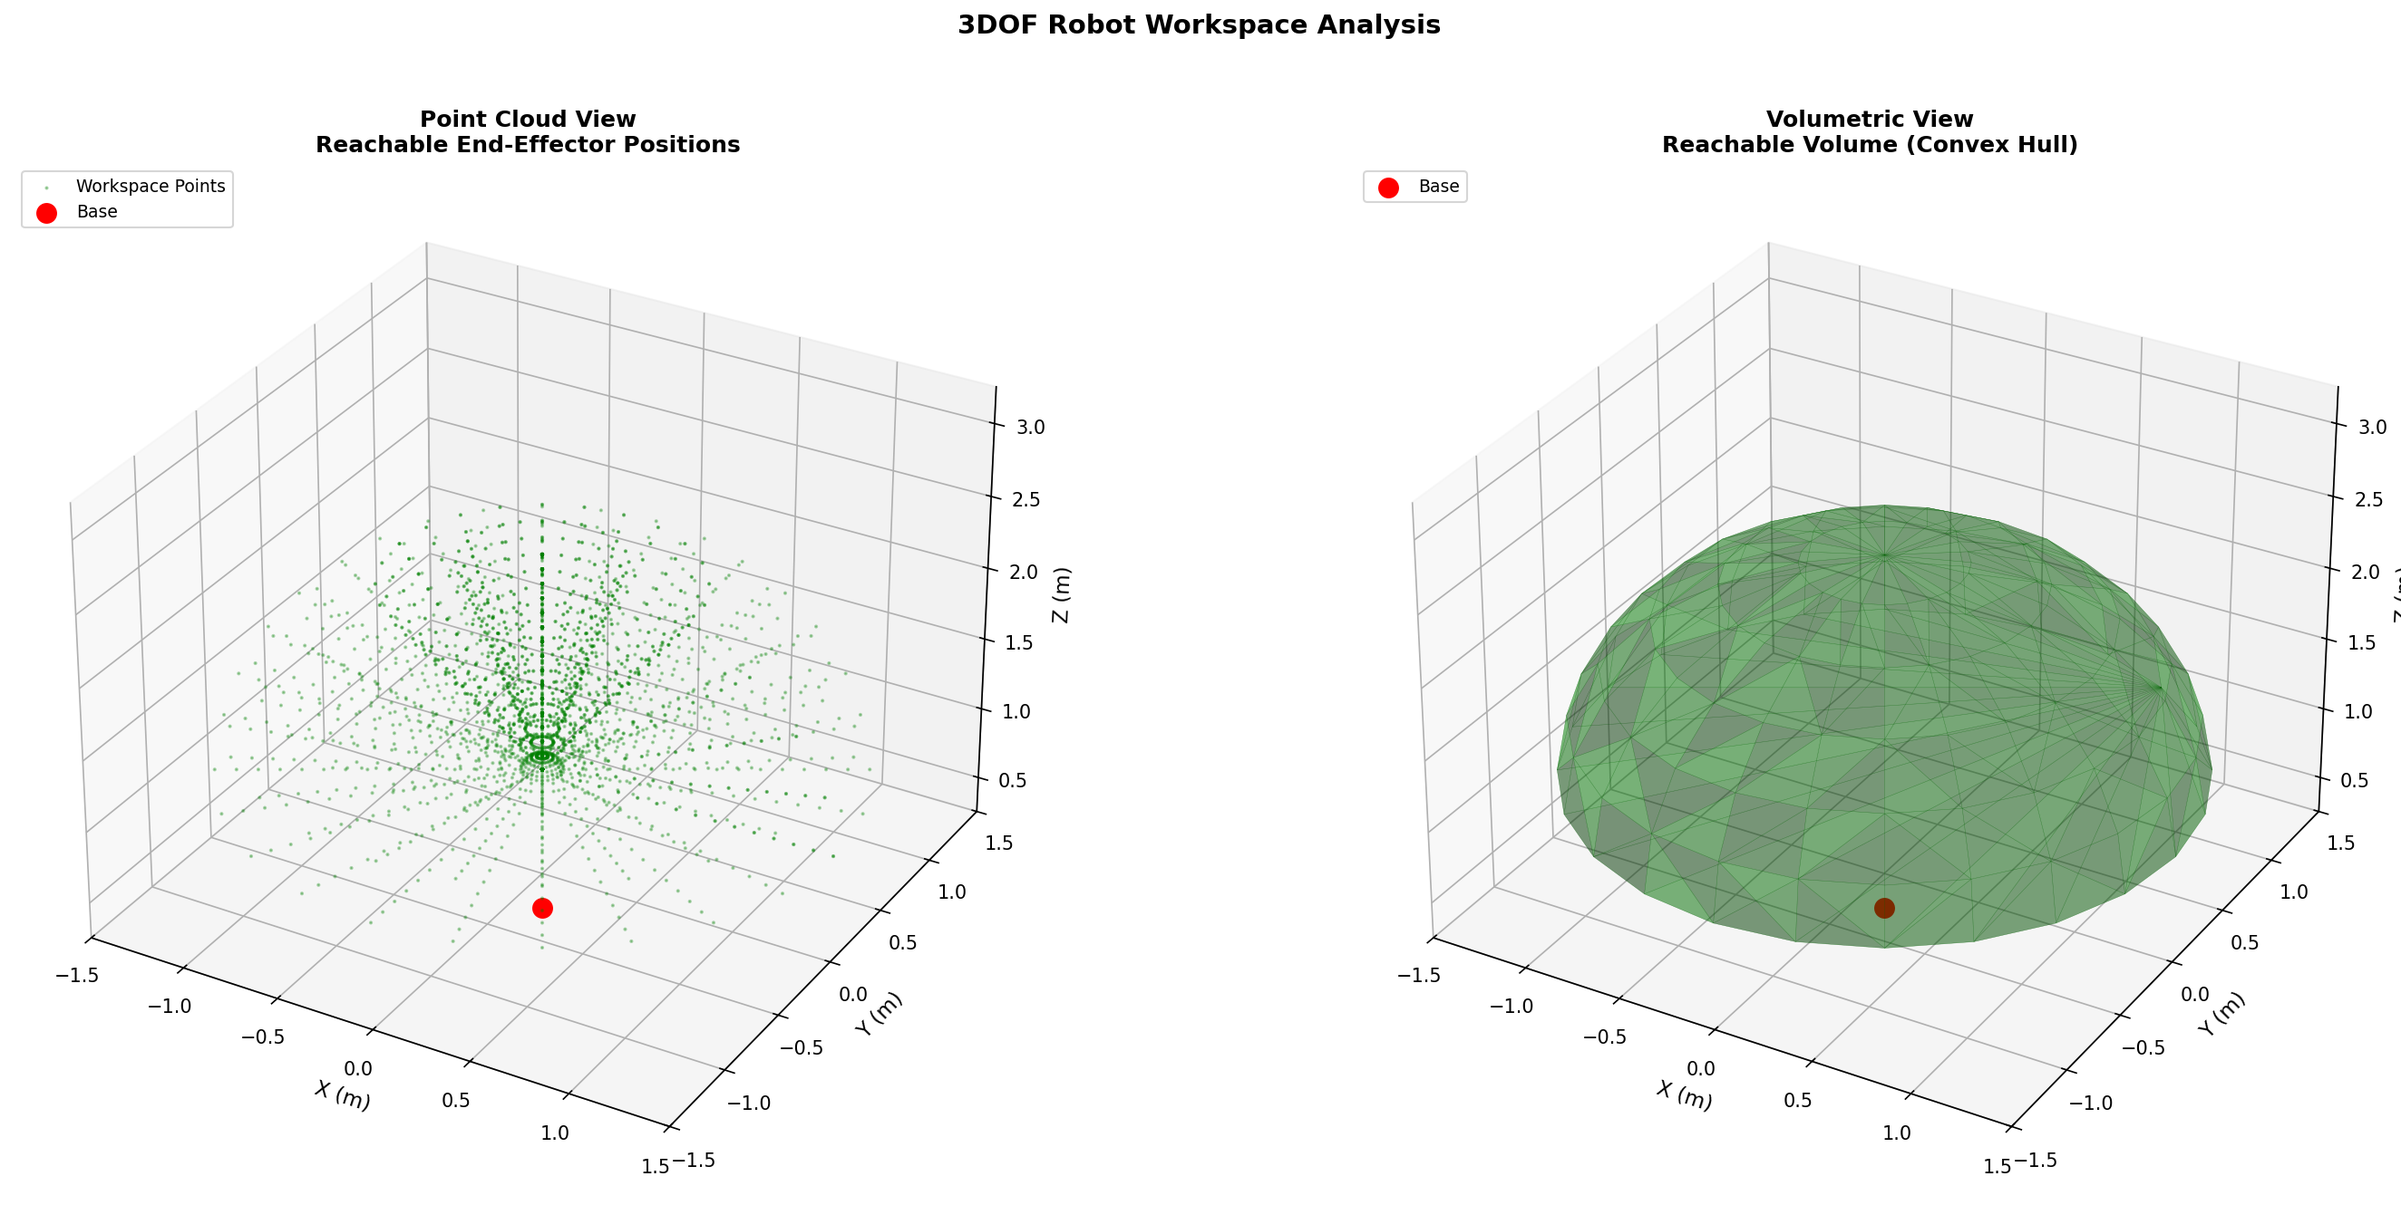
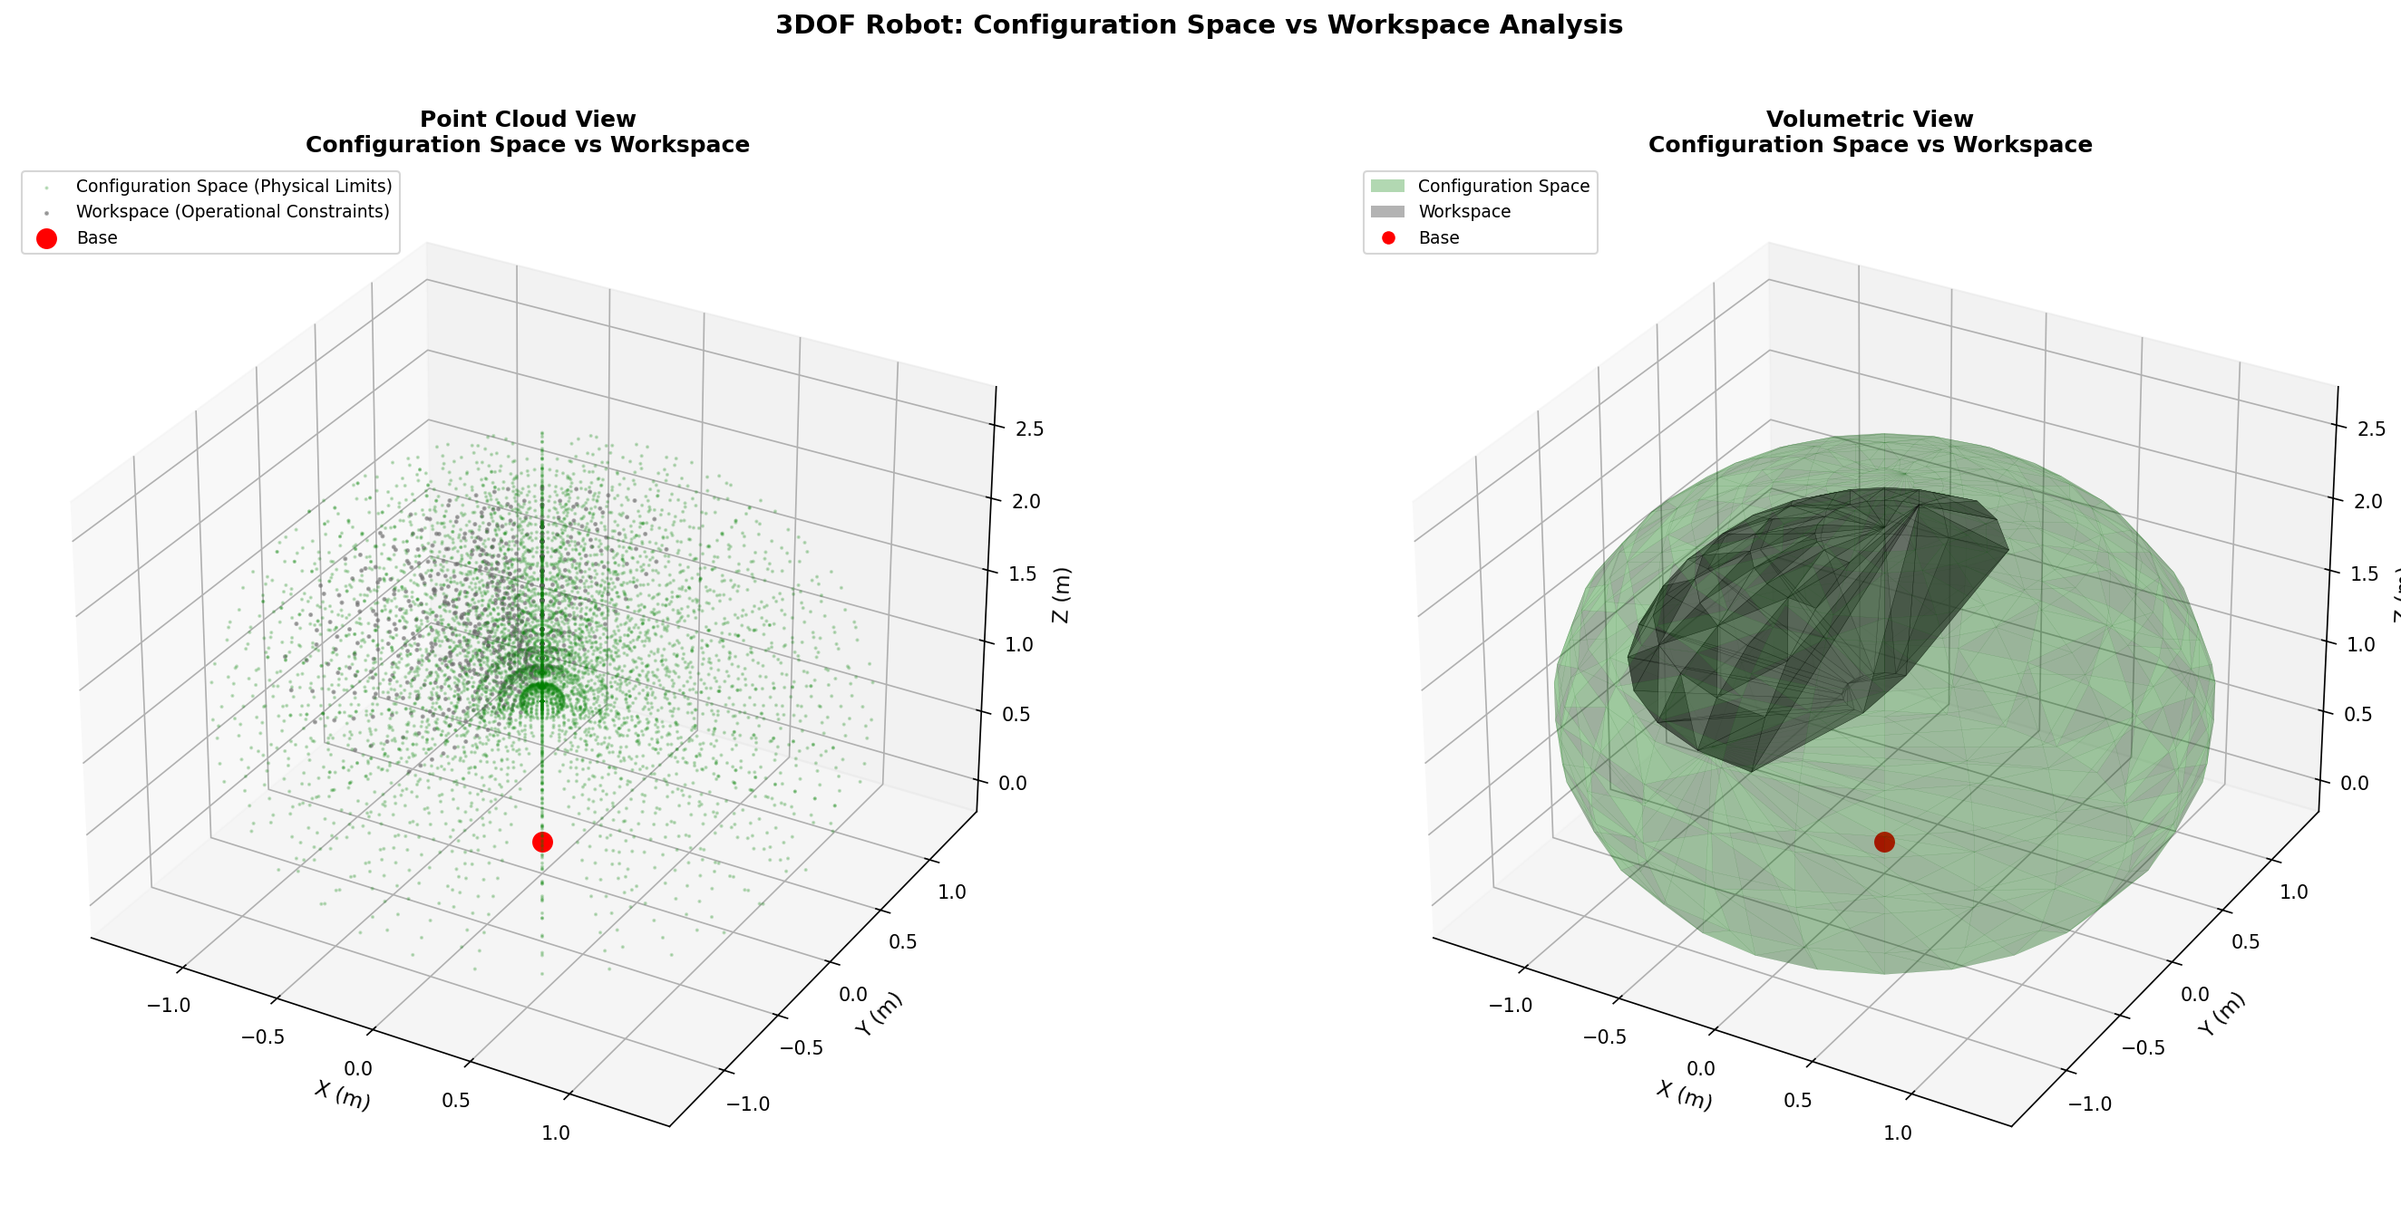
update workspace

diff --git a/tests/analytical_ik/test_3dof_workspace.py b/tests/analytical_ik/test_3dof_workspace.py
@@ -11,24 +11,24 @@ sys.path.insert(0, os.path.abspath(os.path.join(os.path.dirname(__file__), '../.
 from tools.robot_3dof_dh import Robot3DOF_DH
 
 
-def compute_workspace(robot, resolution_deg=10):
+def compute_configuration_space(robot, q1_limits=(-180, 180), q2_limits=(-130, 90), 
+                                q3_limits=(0.0, 1.5), resolution_deg=10):
     """
-    Computes the robot's workspace by sampling joint angles.
+    Computes the robot's configuration space by sampling all joint angles within physical limits.
     
     :param robot: Robot3DOF_DH instance
+    :param q1_limits: Tuple (min, max) in degrees for joint 1
+    :param q2_limits: Tuple (min, max) in degrees for joint 2
+    :param q3_limits: Tuple (min, max) in meters for joint 3 (prismatic)
     :param resolution_deg: The step size in degrees for sampling each joint's range of motion
     :return: Array of reachable 3D points for the end-effector
     """
-    print(f"\nComputing workspace with a resolution of {resolution_deg} degrees...")
+    print(f"\nComputing CONFIGURATION SPACE (physical limits) with resolution of {resolution_deg}°...")
     
-    # Define joint ranges based on physical limits
-    # q1: Full rotation -180° to 180°
-    # q2: Tilt range -90° to 90°
-    # q3: Extension 0 to 1.5m (sample in meters, not degrees)
-    
-    q1_range = np.deg2rad(np.arange(-180, 180 + resolution_deg, resolution_deg))
-    q2_range = np.deg2rad(np.arange(-30, 90 + resolution_deg, resolution_deg))
-    q3_range = np.arange(0.0, 1.5 + 0.1, 0.1)  # Sample every 0.1m
+    # Define joint ranges based on provided limits
+    q1_range = np.deg2rad(np.arange(q1_limits[0], q1_limits[1] + resolution_deg, resolution_deg))
+    q2_range = np.deg2rad(np.arange(q2_limits[0], q2_limits[1] + resolution_deg, resolution_deg))
+    q3_range = np.arange(q3_limits[0], q3_limits[1] + 0.1, 0.1)  # Sample every 0.1m
     
     # Calculate total number of points
     num_q1 = len(q1_range)
@@ -36,13 +36,14 @@ def compute_workspace(robot, resolution_deg=10):
     num_q3 = len(q3_range)
     total_combinations = num_q1 * num_q2 * num_q3
     
-    print(f"Joint samples: q1={num_q1}, q2={num_q2}, q3={num_q3}")
-    print(f"Total points to compute: {total_combinations:,}")
+    print(f"  Physical limits: q1=[{q1_limits[0]}°, {q1_limits[1]}°], q2=[{q2_limits[0]}°, {q2_limits[1]}°], q3=[{q3_limits[0]}m, {q3_limits[1]}m]")
+    print(f"  Joint samples: q1={num_q1}, q2={num_q2}, q3={num_q3}")
+    print(f"  Total points to compute: {total_combinations:,}")
     
     # Use itertools.product for efficient iteration
     joint_angle_iterator = itertools.product(q1_range, q2_range, q3_range)
     
-    workspace_points = []
+    config_space_points = []
     for i, (q1, q2, q3) in enumerate(joint_angle_iterator):
         # Print progress
         if (i + 1) % 10000 == 0 or (i + 1) == total_combinations:
@@ -52,10 +53,67 @@ def compute_workspace(robot, resolution_deg=10):
         angles = np.array([q1, q2, q3])
         transforms = robot.forward_kinematics(angles)
         end_effector_position = transforms[-1][:3, 3]
+        config_space_points.append(end_effector_position)
+    
+    config_space_points = np.array(config_space_points)
+    print(f"✓ Configuration space computed: {len(config_space_points):,} reachable points")
+    
+    return config_space_points
+
+
+def compute_workspace(robot, q1_limits=(-90, 90), q2_limits=(-45, 60), 
+                      q3_limits=(0.2, 1.2), resolution_deg=10):
+    """
+    Computes the robot's workspace with OPERATIONAL CONSTRAINTS (stricter limits).
+    These constraints represent external factors like obstacles, safety zones, cable limits, etc.
+    
+    :param robot: Robot3DOF_DH instance
+    :param q1_limits: Tuple (min, max) in degrees for joint 1 operational constraints
+    :param q2_limits: Tuple (min, max) in degrees for joint 2 operational constraints
+    :param q3_limits: Tuple (min, max) in meters for joint 3 operational constraints
+    :param resolution_deg: The step size in degrees for sampling each joint's range of motion
+    :return: Array of reachable 3D points for the end-effector with constraints
+    """
+    print(f"\nComputing WORKSPACE (with operational constraints) with resolution of {resolution_deg}°...")
+    
+    # Define joint ranges with provided OPERATIONAL CONSTRAINTS
+    # These are stricter than physical limits due to:
+    # - Obstacle avoidance
+    # - Cable management
+    # - Safety zones
+    # - Preferred operating region
+    
+    q1_range = np.deg2rad(np.arange(q1_limits[0], q1_limits[1] + resolution_deg, resolution_deg))
+    q2_range = np.deg2rad(np.arange(q2_limits[0], q2_limits[1] + resolution_deg, resolution_deg))
+    q3_range = np.arange(q3_limits[0], q3_limits[1] + 0.1, 0.1)
+    
+    # Calculate total number of points
+    num_q1 = len(q1_range)
+    num_q2 = len(q2_range)
+    num_q3 = len(q3_range)
+    total_combinations = num_q1 * num_q2 * num_q3
+    
+    print(f"  Operational constraints: q1=[{q1_limits[0]}°, {q1_limits[1]}°], q2=[{q2_limits[0]}°, {q2_limits[1]}°], q3=[{q3_limits[0]}m, {q3_limits[1]}m]")
+    print(f"  Joint samples: q1={num_q1}, q2={num_q2}, q3={num_q3}")
+    print(f"  Total points to compute: {total_combinations:,}")
+    
+    # Use itertools.product for efficient iteration
+    joint_angle_iterator = itertools.product(q1_range, q2_range, q3_range)
+    
+    workspace_points = []
+    for i, (q1, q2, q3) in enumerate(joint_angle_iterator):
+        # Print progress
+        if (i + 1) % 5000 == 0 or (i + 1) == total_combinations:
+            print(f"  Progress: {i+1:,}/{total_combinations:,} ({100*(i+1)/total_combinations:.1f}%)")
+        
+        # Compute forward kinematics
+        angles = np.array([q1, q2, q3])
+        transforms = robot.forward_kinematics(angles)
+        end_effector_position = transforms[-1][:3, 3]
         workspace_points.append(end_effector_position)
     
     workspace_points = np.array(workspace_points)
-    print(f"\n✓ Workspace computation finished: {len(workspace_points):,} reachable points")
+    print(f"✓ Workspace computed: {len(workspace_points):,} reachable points")
     
     return workspace_points
 
@@ -173,40 +231,49 @@ def plot_workspace_volume(robot, workspace_points):
     plt.show()
 
 
-def plot_workspace_combined(robot, workspace_points):
+def plot_workspace_combined(robot, config_space_points, workspace_points):
     """
-    Plot both point cloud and volumetric surface in a single figure with two subplots.
+    Plot both configuration space and workspace in a single figure with two subplots.
+    Shows point cloud and volumetric surface views side by side.
     
     :param robot: Robot3DOF_DH instance
-    :param workspace_points: Array of workspace positions
+    :param config_space_points: Array of configuration space positions (physical limits)
+    :param workspace_points: Array of workspace positions (with operational constraints)
     """
     from scipy.spatial import ConvexHull
     
     fig = plt.figure(figsize=(20, 9))
     
-    # Calculate common axis limits for both plots
-    max_range = np.array([workspace_points[:, 0].max() - workspace_points[:, 0].min(),
-                          workspace_points[:, 1].max() - workspace_points[:, 1].min(),
-                          workspace_points[:, 2].max() - workspace_points[:, 2].min()]).max() / 2.0
+    # Calculate common axis limits for both plots (use config space for full range)
+    max_range = np.array([config_space_points[:, 0].max() - config_space_points[:, 0].min(),
+                          config_space_points[:, 1].max() - config_space_points[:, 1].min(),
+                          config_space_points[:, 2].max() - config_space_points[:, 2].min()]).max() / 2.0
     
-    mid_x = (workspace_points[:, 0].max() + workspace_points[:, 0].min()) * 0.5
-    mid_y = (workspace_points[:, 1].max() + workspace_points[:, 1].min()) * 0.5
-    mid_z = (workspace_points[:, 2].max() + workspace_points[:, 2].min()) * 0.5
+    mid_x = (config_space_points[:, 0].max() + config_space_points[:, 0].min()) * 0.5
+    mid_y = (config_space_points[:, 1].max() + config_space_points[:, 1].min()) * 0.5
+    mid_z = (config_space_points[:, 2].max() + config_space_points[:, 2].min()) * 0.5
     
-    # Subplot 1: Point Cloud
+    # Subplot 1: Point Cloud View
     ax1 = fig.add_subplot(121, projection='3d')
     
+    # Plot configuration space (green)
+    ax1.scatter(config_space_points[:, 0], 
+                config_space_points[:, 1], 
+                config_space_points[:, 2],
+                c='green', alpha=0.2, s=1, label='Configuration Space (Physical Limits)')
+    
+    # Plot workspace (grey/dark grey)
     ax1.scatter(workspace_points[:, 0], 
                 workspace_points[:, 1], 
                 workspace_points[:, 2],
-                c='green', alpha=0.3, s=1, label='Workspace Points')
+                c='dimgrey', alpha=0.5, s=2, label='Workspace (Operational Constraints)')
     
-    ax1.scatter([0], [0], [0], c='red', s=100, marker='o', label='Base')
+    ax1.scatter([0], [0], [0], c='red', s=100, marker='o', label='Base', zorder=10)
     
     ax1.set_xlabel('X (m)', fontsize=11)
     ax1.set_ylabel('Y (m)', fontsize=11)
     ax1.set_zlabel('Z (m)', fontsize=11)
-    ax1.set_title('Point Cloud View\nReachable End-Effector Positions', 
+    ax1.set_title('Point Cloud View\nConfiguration Space vs Workspace', 
                   fontsize=12, fontweight='bold')
     ax1.legend(loc='upper left', fontsize=9)
     ax1.grid(True, alpha=0.3)
@@ -215,39 +282,57 @@ def plot_workspace_combined(robot, workspace_points):
     ax1.set_ylim(mid_y - max_range, mid_y + max_range)
     ax1.set_zlim(mid_z - max_range, mid_z + max_range)
     
-    # Subplot 2: Volumetric Surface
+    # Subplot 2: Volumetric Surface View
     ax2 = fig.add_subplot(122, projection='3d')
     
-    print("  Computing convex hull for volumetric visualization...")
+    print("  Computing convex hulls for volumetric visualization...")
     
+    # Plot configuration space hull (green)
     try:
-        hull = ConvexHull(workspace_points)
+        hull_config = ConvexHull(config_space_points)
         
-        # Plot the convex hull surface
-        for simplex in hull.simplices:
+        for simplex in hull_config.simplices:
+            triangle = config_space_points[simplex]
+            ax2.plot_trisurf(triangle[:, 0], triangle[:, 1], triangle[:, 2],
+                            triangles=[[0, 1, 2]], 
+                            color='green', alpha=0.2, edgecolor='darkgreen', linewidth=0.1)
+        
+        print(f"  ✓ Configuration space hull: {len(hull_config.simplices)} triangular faces")
+        
+    except Exception as e:
+        print(f"  Warning: Could not compute config space hull: {e}")
+    
+    # Plot workspace hull (grey)
+    try:
+        hull_workspace = ConvexHull(workspace_points)
+        
+        for simplex in hull_workspace.simplices:
             triangle = workspace_points[simplex]
             ax2.plot_trisurf(triangle[:, 0], triangle[:, 1], triangle[:, 2],
                             triangles=[[0, 1, 2]], 
-                            color='green', alpha=0.3, edgecolor='darkgreen', linewidth=0.2)
+                            color='dimgrey', alpha=0.5, edgecolor='black', linewidth=0.2)
         
-        print(f"  ✓ Convex hull computed: {len(hull.simplices)} triangular faces")
+        print(f"  ✓ Workspace hull: {len(hull_workspace.simplices)} triangular faces")
         
     except Exception as e:
-        print(f"  Warning: Could not compute convex hull: {e}")
-        print("  Falling back to point cloud visualization...")
-        ax2.scatter(workspace_points[:, 0], 
-                    workspace_points[:, 1], 
-                    workspace_points[:, 2],
-                    c='green', alpha=0.3, s=1)
+        print(f"  Warning: Could not compute workspace hull: {e}")
     
     ax2.scatter([0], [0], [0], c='red', s=100, marker='o', label='Base', zorder=10)
     
     ax2.set_xlabel('X (m)', fontsize=11)
     ax2.set_ylabel('Y (m)', fontsize=11)
     ax2.set_zlabel('Z (m)', fontsize=11)
-    ax2.set_title('Volumetric View\nReachable Volume (Convex Hull)', 
+    ax2.set_title('Volumetric View\nConfiguration Space vs Workspace', 
                   fontsize=12, fontweight='bold')
-    ax2.legend(loc='upper left', fontsize=9)
+    
+    # Create custom legend
+    from matplotlib.patches import Patch
+    legend_elements = [
+        Patch(facecolor='green', alpha=0.3, label='Configuration Space'),
+        Patch(facecolor='dimgrey', alpha=0.5, label='Workspace'),
+        plt.Line2D([0], [0], marker='o', color='w', markerfacecolor='r', markersize=8, label='Base')
+    ]
+    ax2.legend(handles=legend_elements, loc='upper left', fontsize=9)
     ax2.grid(True, alpha=0.3)
     
     ax2.set_xlim(mid_x - max_range, mid_x + max_range)
@@ -255,20 +340,20 @@ def plot_workspace_combined(robot, workspace_points):
     ax2.set_zlim(mid_z - max_range, mid_z + max_range)
     
     # Add main title
-    fig.suptitle('3DOF Robot Workspace Analysis', fontsize=14, fontweight='bold', y=0.98)
+    fig.suptitle('3DOF Robot: Configuration Space vs Workspace Analysis', fontsize=14, fontweight='bold', y=0.98)
     
     plt.tight_layout(rect=[0, 0, 1, 0.96])
     plt.savefig('docs/3dof_workspace_combined.png', dpi=150, bbox_inches='tight')
-    print("\n✓ Combined workspace visualization saved as 'docs/3dof_workspace_combined.png'")
+    print("\n✓ Combined visualization saved as 'docs/3dof_workspace_combined.png'")
     plt.show()
 
 
 def main():
     """
-    Main function to compute and visualize the 3DOF robot workspace.
+    Main function to compute and visualize the 3DOF robot configuration space and workspace.
     """
     print("="*70)
-    print("3DOF Robot Workspace Computation")
+    print("3DOF Robot: Configuration Space vs Workspace Analysis")
     print("="*70)
     
     # Initialize robot
@@ -276,27 +361,64 @@ def main():
     
     print("\nRobot Configuration:")
     print(f"  L1 (base height): {robot.L1}m")
-    print(f"  Joint 1 (q1): Revolute, full rotation (-180° to 180°)")
-    print(f"  Joint 2 (q2): Revolute, tilt (-90° to 90°)")
-    print(f"  Joint 3 (q3): Prismatic, extension (0 to 1.5m)")
+    print(f"  Joint 1 (q1): Revolute")
+    print(f"  Joint 2 (q2): Revolute")
+    print(f"  Joint 3 (q3): Prismatic")
     
-    # Compute workspace
+    print("\n" + "="*70)
+    print("Computing Spaces")
+    print("="*70)
+    
     resolution = 15  # degrees (adjust for speed vs accuracy)
-    workspace_points = compute_workspace(robot, resolution_deg=resolution)
     
-    # Plot workspace - both point cloud and volumetric views
-    if workspace_points.size > 0:
+    # Define PHYSICAL LIMITS for Configuration Space
+    config_q1_limits = (-180, 180)  # Full rotation
+    config_q2_limits = (-130, 90)   # Physical tilt range
+    config_q3_limits = (0.0, 1.5)   # Full extension
+    
+    # Define OPERATIONAL CONSTRAINTS for Workspace
+    # These are stricter due to obstacles, safety zones, cable limits, etc.
+    workspace_q1_limits = (-90, 90)   # Limited rotation
+    workspace_q2_limits = (0, 70)   # Limited tilt
+    workspace_q3_limits = (0.2, 1.2)  # Limited extension with safety margins
+    
+    # 1. Compute Configuration Space (physical limits)
+    config_space_points = compute_configuration_space(
+        robot, 
+        q1_limits=config_q1_limits,
+        q2_limits=config_q2_limits,
+        q3_limits=config_q3_limits,
+        resolution_deg=resolution
+    )
+    
+    # 2. Compute Workspace (operational constraints)
+    workspace_points = compute_workspace(
+        robot,
+        q1_limits=workspace_q1_limits,
+        q2_limits=workspace_q2_limits,
+        q3_limits=workspace_q3_limits,
+        resolution_deg=resolution
+    )
+    
+    # Generate visualizations
+    if config_space_points.size > 0 and workspace_points.size > 0:
         print("\n" + "="*70)
         print("Generating Visualizations")
         print("="*70)
         
-        # Create combined visualization with both views
         print("\nCreating combined visualization...")
-        plot_workspace_combined(robot, workspace_points)
+        print(f"  Configuration space: {len(config_space_points):,} points (green)")
+        print(f"  Workspace: {len(workspace_points):,} points (grey)")
+        
+        plot_workspace_combined(robot, config_space_points, workspace_points)
     
     print("\n" + "="*70)
     print("✓ Analysis complete!")
     print("="*70)
+    print("\nSummary:")
+    print(f"  Configuration Space: All positions reachable within physical limits")
+    print(f"  Workspace: Positions reachable with operational constraints")
+    print(f"  Constraints represent: obstacles, safety zones, cable limits, etc.")
 
 
 if __name__ == "__main__":
